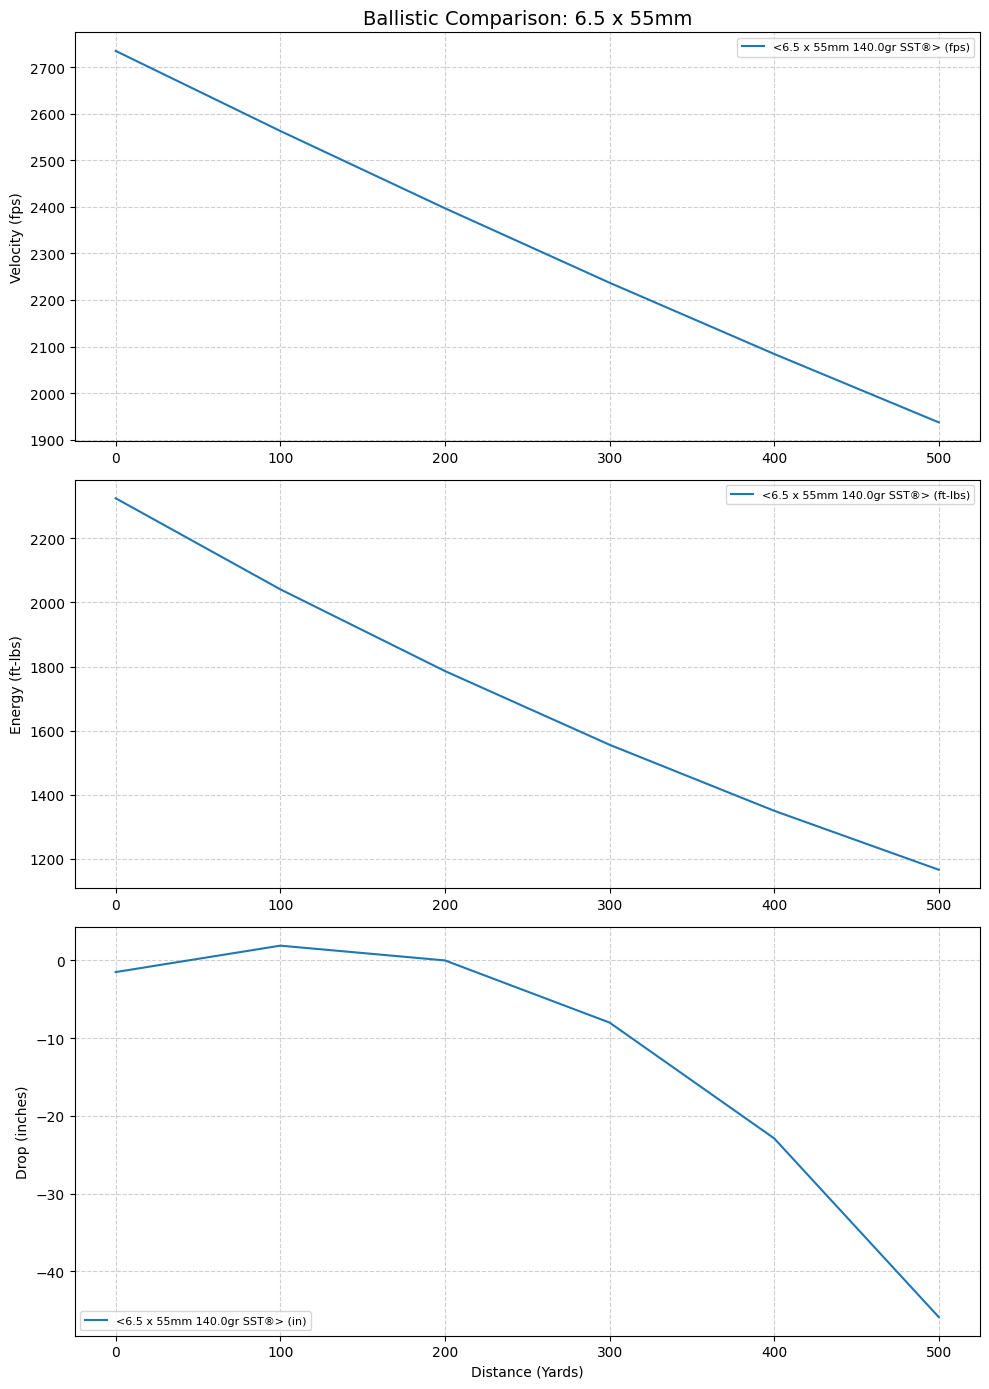
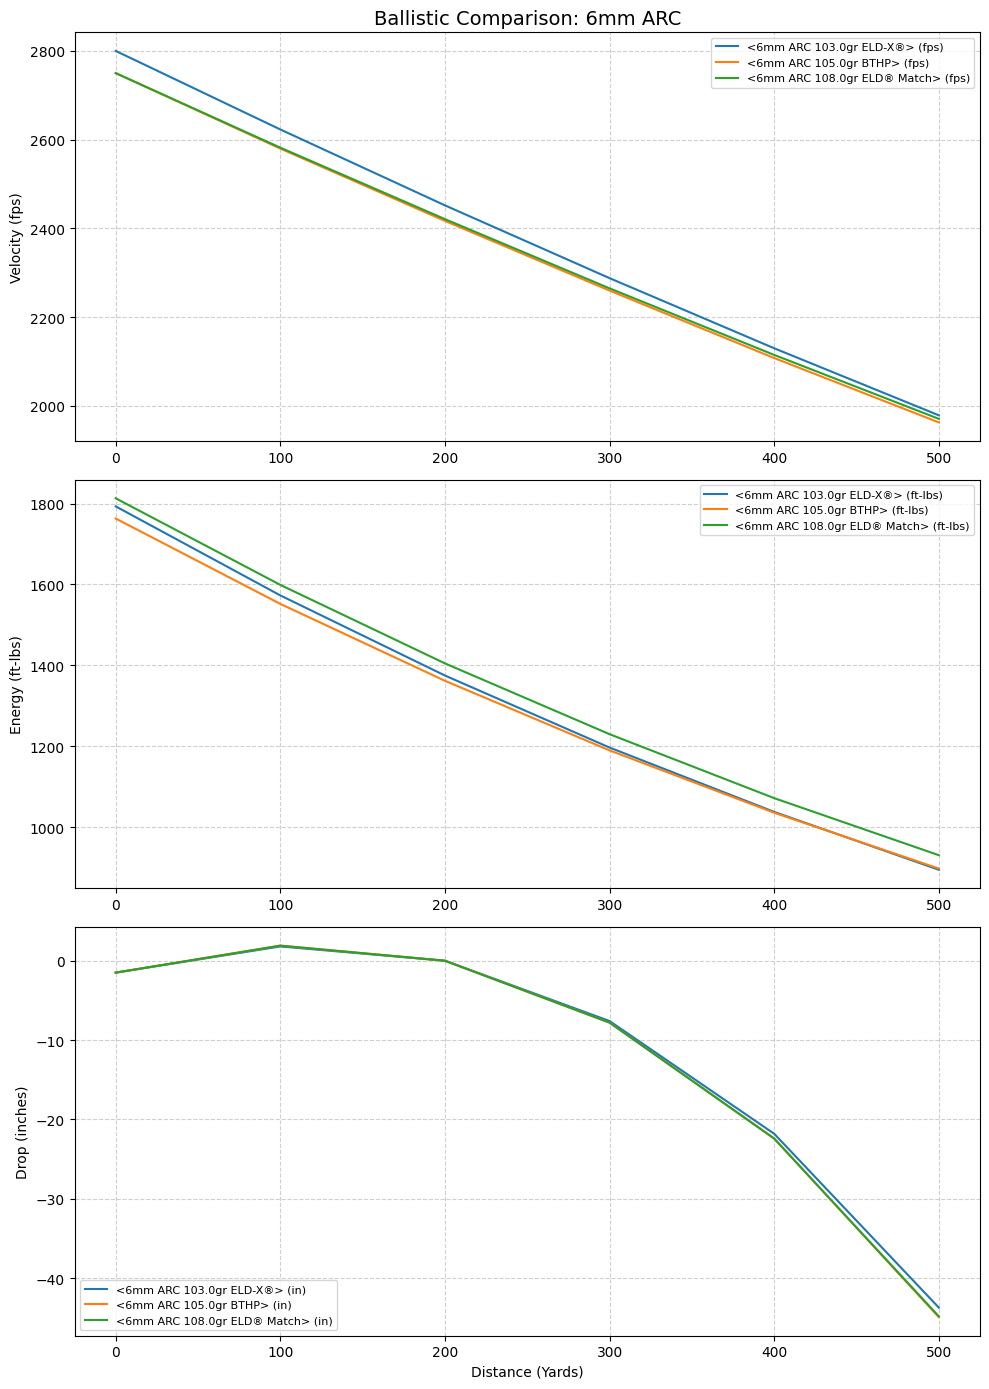
early tie in

diff --git a/class_and_functions.py b/class_and_functions.py
@@ -57,40 +57,58 @@ class Caliber:
 
 def load_calibers(ballistics_table):
     calibers = []
-    with open(ballistics_table, newline='') as f:
-        reader = csv.DictReader(f)
-        for row in reader:
-            calibers.append(Caliber(row))
+    try:
+        with open(ballistics_table, newline='') as f:
+            reader = csv.DictReader(f)
+            for row in reader:
+                calibers.append(Caliber(row))
+    except FileNotFoundError:
+        print(f"Error: {ballistics_table} not found.")
     return calibers
 
+def get_unique_cartridge_names(caliber_objects):
+    return sorted({c.cartridge for c in caliber_objects if c.cartridge})
 
-def available_calibers(ballistics_table):
+def print_available_calibers(caliber_objects, columns=7):
+    unique_names = get_unique_cartridge_names(caliber_objects)
 
-    unique_calibers = set()
-
-    with open(ballistics_table, newline='') as csvfile:
-        reader = csv.DictReader(csvfile, delimiter=',')
-        for row in reader:
-            cartridge = row.get("Cartridge")
-            if cartridge:
-                unique_calibers.add(cartridge.strip())
-    return unique_calibers
-
-def print_available_calibers(ballistics_table, columns=4):
-    unique_calibers = sorted(available_calibers(ballistics_table))
-
-    if not unique_calibers:
+    if not unique_names:
         print("No calibers found.")
         return
-    max_length = max(len(cal) for cal in unique_calibers)
-    padding = 4
-    col_width = max_length + padding
+
+    max_length = max(len(name) for name in unique_names)
+    col_width = max_length + 4
 
     print("Available Calibers:")
+    for i in range(0, len(unique_names), columns):
+        row_items = unique_names[i:i + columns]
+        print(''.join(item.ljust(col_width) for item in row_items))
 
-    for i in range(0, len(unique_calibers), columns):
-        row_items = unique_calibers[i:i + columns]
-        formatted_row = [item.ljust(col_width) for item in row_items]
-        print(''.join(formatted_row))
+def get_available_grains(caliber_objects, target_cartridge):
+    grains = {
+        c.bullet_weight for c in caliber_objects 
+        if c.cartridge == target_cartridge and c.bullet_weight is not None
+    }
+    return sorted(list(grains))
 
-# print_available_calibers("ballistics_table.csv", columns=7)
+def print_grains_for_caliber(caliber_objects, target_cartridge):
+    grains = get_available_grains(caliber_objects, target_cartridge)
+    
+    if not grains:
+        print(f"No data found for caliber: {target_cartridge}")
+        return
+
+    formatted_grains = [f"{g}gr" for g in grains]
+    
+    print(f"\nAvailable weights for {target_cartridge}:")
+    print(", ".join(formatted_grains))
+
+def find_calibers_fuzzy(caliber_objects, search_term):
+    search_term = search_term.lower().strip()
+
+    all_names = {c.cartridge for c in caliber_objects if c.cartridge}
+
+    matches = [name for name in all_names if search_term in name.lower()]
+
+    return sorted(matches)
+

diff --git a/graph.py b/graph.py
@@ -10,48 +10,46 @@ def plot_caliber_data(calibers, cartridge_name):
         print(f"No data available for cartridge: {cartridge_name}")
         return
     
-    # Create the 3x1 layout
     fig, (ax1, ax2, ax3) = plt.subplots(3, 1, figsize=(10, 14))
     
     distances = Caliber.DISTANCES
     
     for caliber in selected_calibers:
-        # Plot 1: Velocity
+
         ax1.plot(distances, [caliber.vel(d) for d in distances], 
                  label=f'{caliber} (fps)')
         
-        # Plot 2: Energy
+
         ax2.plot(distances, [caliber.eng(d) for d in distances], 
                  label=f'{caliber} (ft-lbs)')
         
-        # Plot 3: Drop
+
         ax3.plot(distances, [caliber.drop(d) for d in distances], 
                  label=f'{caliber} (in)')
 
-    # --- Subplot 1: Velocity ---
+
     ax1.set_title(f'Ballistic Comparison: {cartridge_name}', fontsize=14)
     ax1.set_ylabel('Velocity (fps)')
     ax1.grid(True, linestyle='--', alpha=0.6)
     ax1.legend(loc='upper right', fontsize=8)
 
-    # --- Subplot 2: Energy ---
+
     ax2.set_ylabel('Energy (ft-lbs)')
     ax2.grid(True, linestyle='--', alpha=0.6)
     ax2.legend(loc='upper right', fontsize=8)
 
-    # --- Subplot 3: Drop ---
-    ax3.set_xlabel('Distance (Yards)') # Added "Yards" here
+
+    ax3.set_xlabel('Distance (Yards)')
     ax3.set_ylabel('Drop (inches)')
     ax3.grid(True, linestyle='--', alpha=0.6)
-    ax3.legend(loc='lower left', fontsize=8) # 'lower left' often avoids the drop line
+    ax3.legend(loc='lower left', fontsize=8)
 
-    # Fix layout and save
     plt.tight_layout()
     plt.savefig("ballistics_comparison.png", bbox_inches='tight')
     print("Plot saved as ballistics_comparison.png")
 
-ballistics_table = "ballistics_table.csv"
+'''ballistics_table = "ballistics_table.csv"
 calibers = load_calibers(ballistics_table) 
-print_available_calibers(ballistics_table, columns=7)
+print_available_calibers(calibers, columns=7)
 
-plot_caliber_data(calibers, '6.5 x 55mm')
+plot_caliber_data(calibers, '6mm ARC')'''

diff --git a/main.py b/main.py
@@ -1,12 +1,20 @@
-from class_and_functions import load_calibers, print_available_calibers
+from class_and_functions import load_calibers, print_available_calibers, print_grains_for_caliber
+from graph import plot_caliber_data
 
 def main():
     table = "ballistics_table.csv"
     calibers = load_calibers(table)
 
+    print("--- Caliber Comparison ---")
     print(f"\nLoaded {len(calibers)} calibers from {table}\n")
+    print_available_calibers(calibers)
+    
+    selected_caliber = input("\nWhich caliber are you interested in? \n")
+    print_grains_for_caliber(calibers, selected_caliber)
 
-    print_available_calibers(table, columns=7)
+    selected_grain = input("\nWhich Grain weight? ")
+
+
 
 
 
